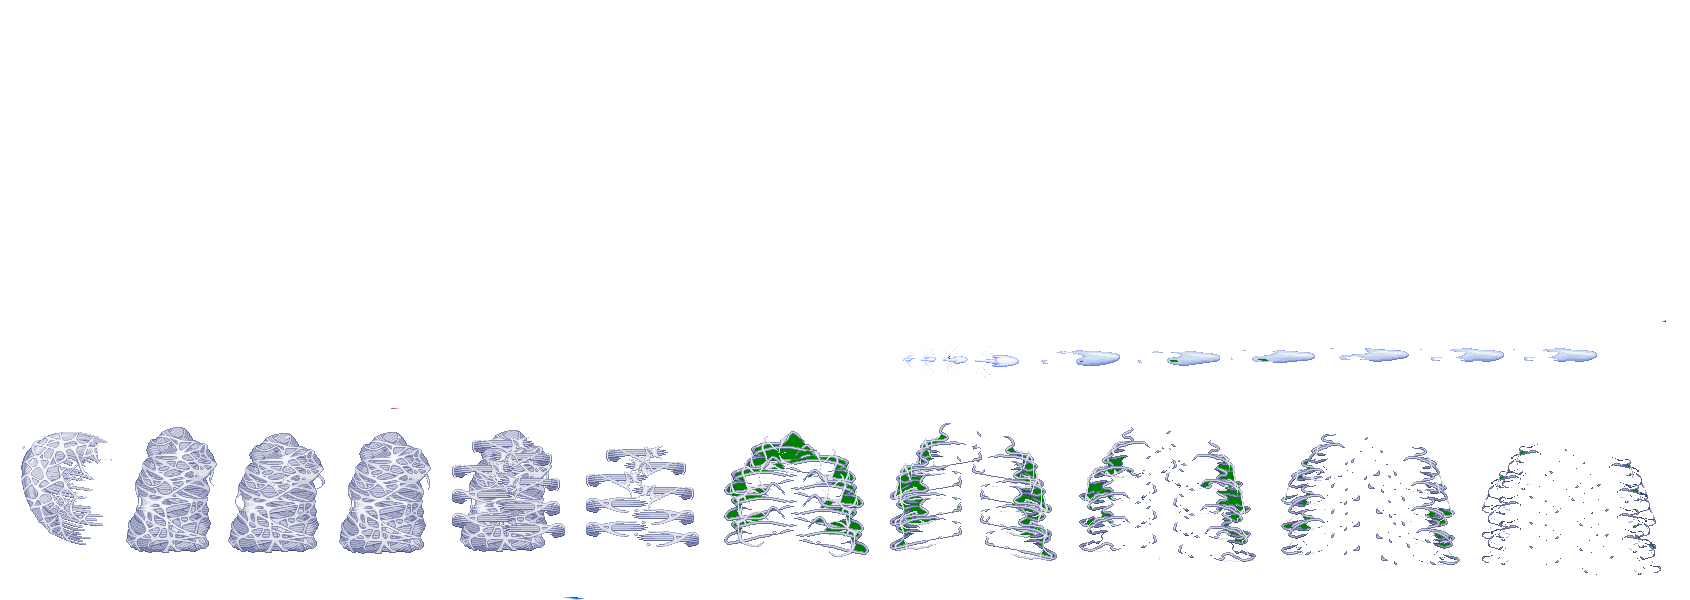
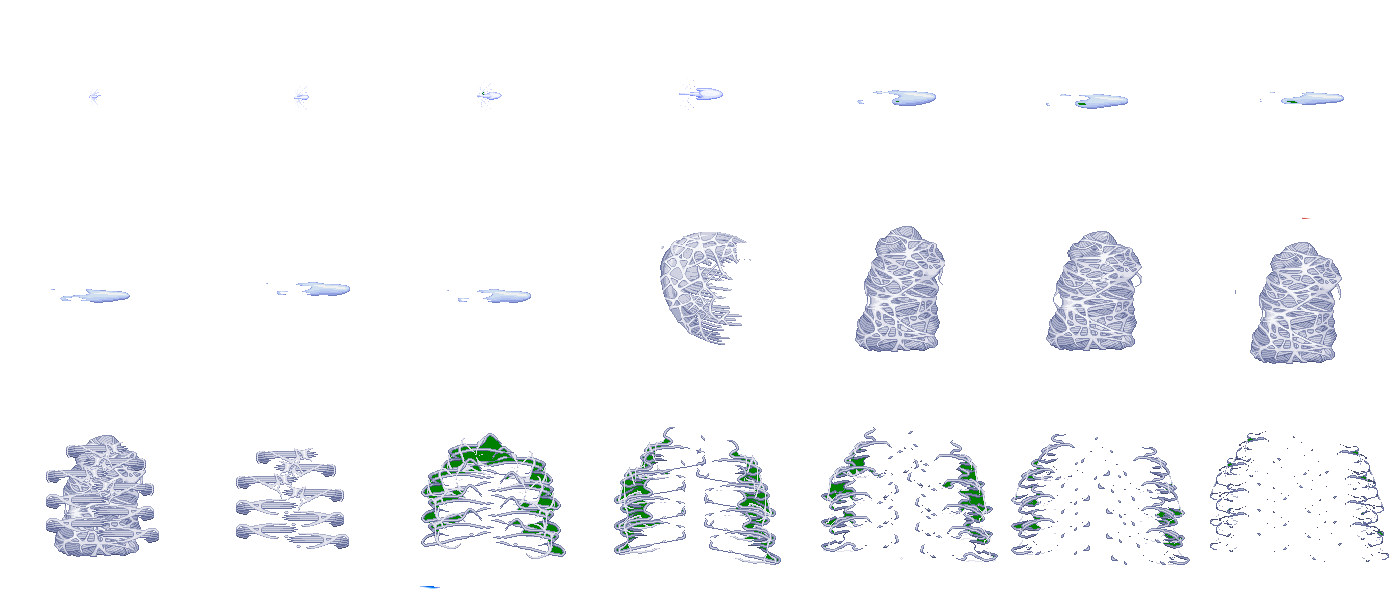
novos sprites

diff --git a/src/Estados/EstadoAtack.js b/src/Estados/EstadoAtack.js
@@ -65,6 +65,8 @@ export default class EstadoAtack extends EstadoBase {
     this.tempoInicio = this.personagem.scene.time.now;
     this.timerFinalizacaoChao = null;
     this.finalizandoPorChao = false;
+    this.timerFinalizacaoAcerto = null;
+    this.finalizandoPorAcerto = false;
     this.comboBuffer = false;
     
 
@@ -272,9 +274,22 @@ if (
 
         oponente.receberDano(valorDano, this.golpeAtual.propriedades, origem);
 
-       if (this.golpeAtual.finalizarAoAcertarOponente) {
-         this.finalizarAtaque();
-         return;
+       if (
+         this.golpeAtual.finalizarAoAcertarOponente &&
+         !this.finalizandoPorAcerto
+       ) {
+         this.finalizandoPorAcerto = true;
+
+         const atraso = this.golpeAtual.atrasoFinalizacaoAcerto ?? 0;
+
+         this.timerFinalizacaoAcerto = this.personagem.scene.time.delayedCall(
+           atraso,
+           () => {
+             if (this.personagem.maquinaEstados.estadoAtual === this) {
+               this.finalizarAtaque();
+             }
+           },
+         );
        }
 
       },
@@ -317,7 +332,14 @@ if (
       this.timerFinalizacaoChao.remove(false);
       this.timerFinalizacaoChao = null;
     }
-
+    
     this.finalizandoPorChao = false;
+
+    if (this.timerFinalizacaoAcerto) {
+      this.timerFinalizacaoAcerto.remove(false);
+      this.timerFinalizacaoAcerto = null;
+    }
+
+    this.finalizandoPorAcerto = false;
   }
 }

diff --git a/src/Estados/EstadoEspecial.js b/src/Estados/EstadoEspecial.js
@@ -1,0 +1,51 @@
+import EstadoBase from "./EstadoBase.js";
+
+export default class EstadoSpecial extends EstadoBase {
+  enter(dados = {}) {
+    let tipoSpecial = dados?.tipo;
+
+    // Descobre a direção
+    if (!tipoSpecial) {
+      const esquerda = this.personagem.inputDown("esquerda");
+      const direita = this.personagem.inputDown("direita");
+      const cima = this.personagem.inputDown("cima");
+      const baixo = this.personagem.inputDown("baixo");
+
+      if (cima) {
+        tipoSpecial = "cima";
+      } else if (baixo) {
+        tipoSpecial = "baixo";
+      } else if (esquerda || direita) {
+        tipoSpecial = "lado";
+      } else {
+        tipoSpecial = "neutro";
+      }
+    }
+
+    this.tipoSpecial = tipoSpecial;
+
+    // PEGA O SPECIAL DA TABELA
+    this.specialAtual = this.personagem.specials?.[tipoSpecial];
+
+    if (!this.specialAtual) {
+      console.warn(`Special "${tipoSpecial}" não existe!`);
+      this.finalizarSpecial();
+      return;
+    }
+
+    console.log("Special:", tipoSpecial);
+    console.log("Dados:", this.specialAtual);
+  }
+
+  execute() {}
+
+  exit() {}
+
+  finalizarSpecial() {
+    if (this.personagem.sprite.body.blocked.down) {
+      this.personagem.maquinaEstados.mudarEstado("idle");
+    } else {
+      this.personagem.maquinaEstados.mudarEstado("jump");
+    }
+  }
+}

diff --git a/src/Personagensjs/SpiderMan.js b/src/Personagensjs/SpiderMan.js
@@ -256,6 +256,7 @@ export default class SpiderMan extends Personagem {
         finalizarAoTocarChao: true,
         atrasoFinalizacaoChao: 100,
         finalizarAoAcertarOponente: true,
+        atrasoFinalizacaoAcerto: 150,
         propriedades: {
           dano: 12,
           knockbackX: 50,
@@ -277,7 +278,7 @@ export default class SpiderMan extends Personagem {
         duracao: 300,
         finalizarAoTocarChao: false,
         atrasoFinalizacaoChao: 100,
-        finalizarAoAcertarOponente:false,
+        finalizarAoAcertarOponente: false,
         propriedades: {
           dano: 12,
           knockbackX: 300,
@@ -305,6 +306,32 @@ export default class SpiderMan extends Personagem {
           knockbackY: -400,
           impulsoX: 30,
         },
+      },
+    };
+
+
+    this.specials = {
+      neutro: {
+        animacao: "spy_special",
+        duracao: 1000,
+
+        propriedades: {
+          dano: 10,
+          knockbackX: 100,
+          knockbackY: -200,
+        },
+      },
+
+      agachado: {
+        
+      },
+
+      lado: {
+        // futuro
+      },
+
+      cima: {
+        // futuro
       },
     };
   }

diff --git a/src/Personagensjs/Personagem.js b/src/Personagensjs/Personagem.js
@@ -6,6 +6,7 @@ import EstadoDash from "../Estados/EstadoDash.js";
 import EstadoCrouch from "../Estados/EstadoCrouch.js";
 import EstadoAtack from "../Estados/EstadoAtack.js";
 import EstadoDano from "../Estados/EstadoDano.js";
+import EstadoSpecial from "../Estados/EstadoSpecial.js";
 
 export default class Personagem {
   constructor(
@@ -29,6 +30,8 @@ export default class Personagem {
     this.cooldownDash = 500;
     this.tempoUltimoDash = 0;
     this.cooldownsAtaque = {};
+    this.cooldownsSpecial = {};
+    this.specials = {};
 
     // Atributos
     this.velocidade = config.velocidade;
@@ -62,6 +65,7 @@ export default class Personagem {
     this.maquinaEstados.adicionarEstado("crouch", new EstadoCrouch(this));
     this.maquinaEstados.adicionarEstado("atack", new EstadoAtack(this));
     this.maquinaEstados.adicionarEstado("dano", new EstadoDano(this));
+    this.maquinaEstados.adicionarEstado("special", new EstadoSpecial(this));
 
     this.maquinaEstados.mudarEstado("idle");
   }

diff --git a/src/Objetos/ControleEntrada.js b/src/Objetos/ControleEntrada.js
@@ -12,6 +12,7 @@ export default class ControleEntrada {
       baixo: false,
       dash: false,
       atack: false,
+      special: false,
     };
 
     this.estadoAnterior = { ...this.estadoAtual };
@@ -37,6 +38,7 @@ export default class ControleEntrada {
     const padDash = this._botaoPadPressionado(pad, 4);
     const padAtack = this._botaoPadPressionado(pad, 3);
     const padPular = this._botaoPadPressionado(pad, 2);
+    const padSpecial = this._botaoPadPressionado(pad, 1);
 
     this.estadoAtual.esquerda = this._teclaDown("esquerda") || padEsquerda;
     this.estadoAtual.direita = this._teclaDown("direita") || padDireita;
@@ -44,6 +46,7 @@ export default class ControleEntrada {
     this.estadoAtual.baixo = this._teclaDown("baixo") || padBaixo;
     this.estadoAtual.dash = this._teclaDown("dash") || padDash;
     this.estadoAtual.atack = this._teclaDown("atack") || padAtack;
+    this.estadoAtual.special = this._teclaDown("special") || padSpecial;
   }
 
   _teclaDown(nome) {

diff --git a/src/Scenes/CenaPrincipal.js b/src/Scenes/CenaPrincipal.js
@@ -39,6 +39,7 @@ export default class cenaPrincipal extends Phaser.Scene {
       baixo: Phaser.Input.Keyboard.KeyCodes.S,
       dash: Phaser.Input.Keyboard.KeyCodes.SPACE,
       atack: Phaser.Input.Keyboard.KeyCodes.F,
+      special: Phaser.Input.Keyboard.KeyCodes.G,
     });
 
     const teclasP2 = this.input.keyboard.addKeys({
@@ -48,6 +49,7 @@ export default class cenaPrincipal extends Phaser.Scene {
       baixo: Phaser.Input.Keyboard.KeyCodes.K,
       dash: Phaser.Input.Keyboard.KeyCodes.SHIFT,
       atack: Phaser.Input.Keyboard.KeyCodes.O,
+      special: Phaser.Input.Keyboard.KeyCodes.P,
     });
 
     const controleP1 = new ControleEntrada(this, teclasP1, 0);
